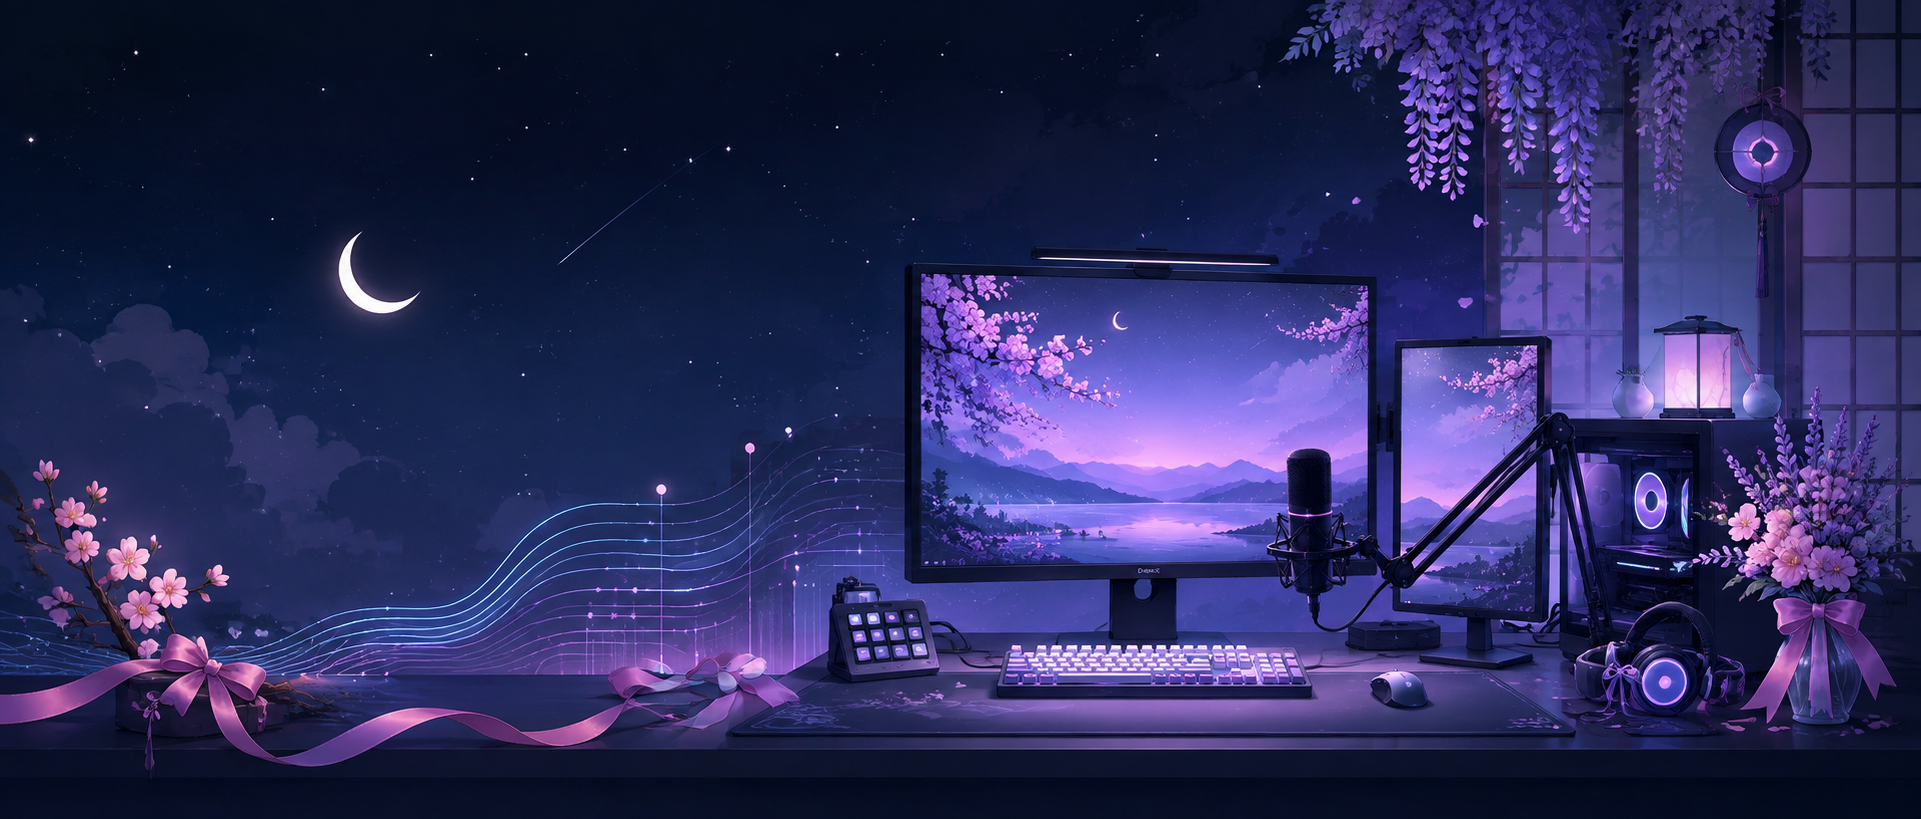
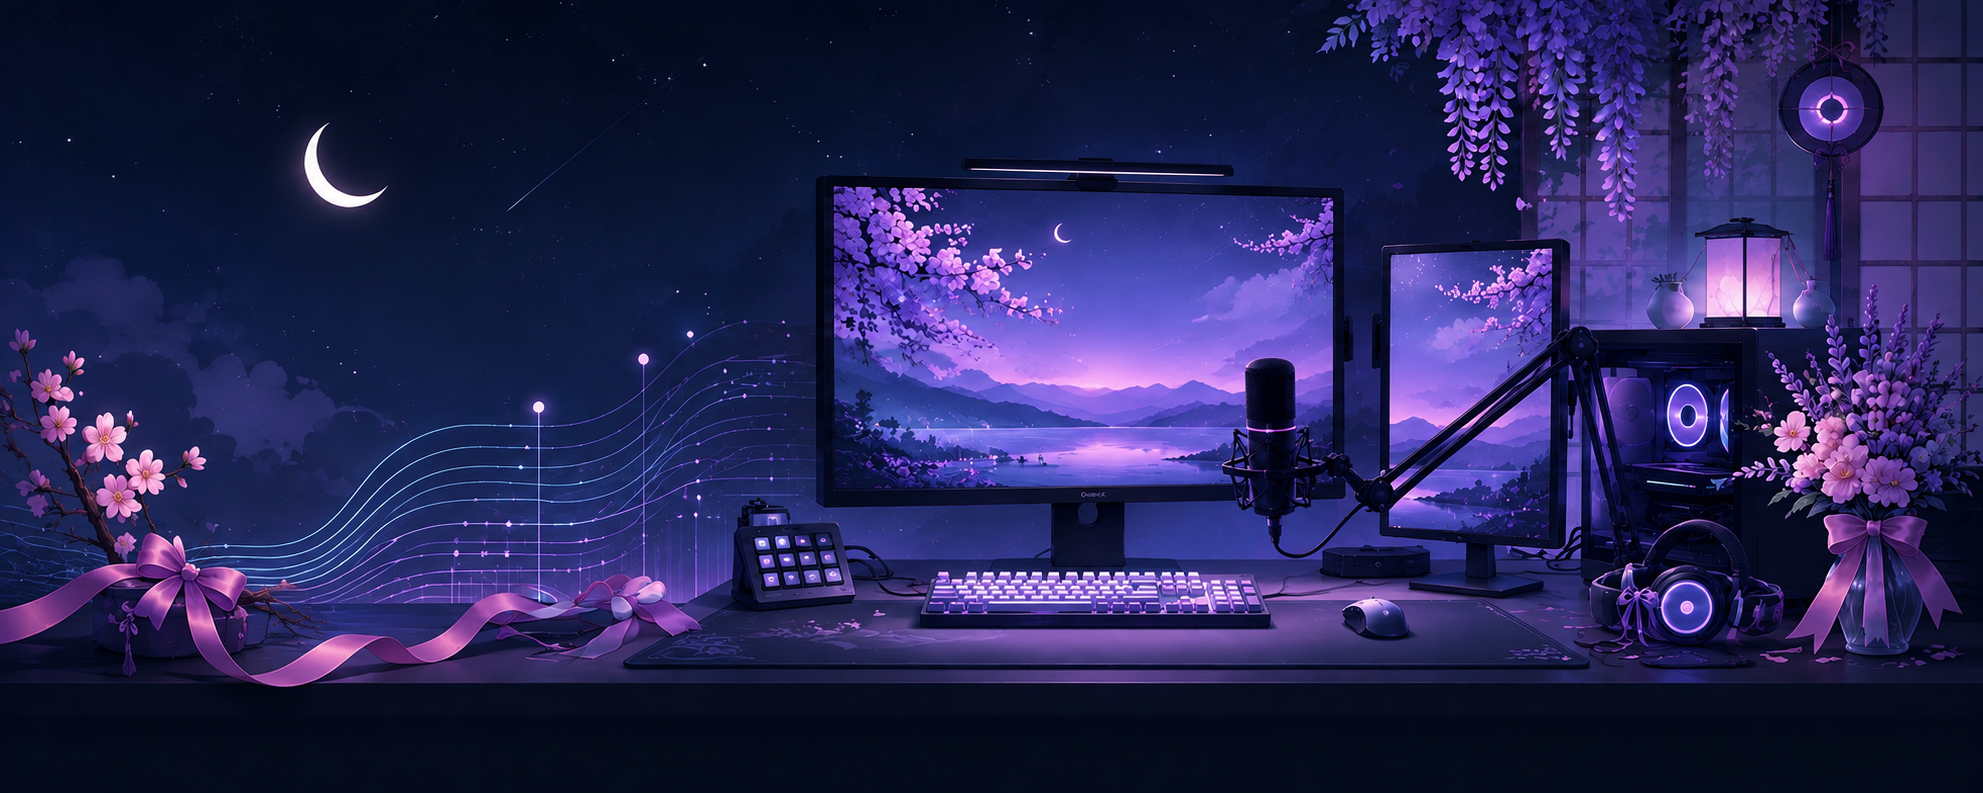
feat: refine profile voice and layout

diff --git a/README.md b/README.md
@@ -1,74 +1,77 @@
 <p align="center">
-  <img src="./assets/profile-banner.png" alt="A moonlit software engineering and streaming workspace" width="100%" />
+  <img src="./assets/profile-banner.png" alt="A moonlit software engineering and streaming workspace" width="88%" />
 </p>
 
 <h1 align="center">yomihime / 如月怜</h1>
 
 <p align="center">
-  <strong>Software Engineer · Virtual Streamer</strong>
+  软件工程师，业余虚拟主播。<br />
+  コードを書いたり、エオルゼアに住んだり。ホラゲも大好きです。
 </p>
 
 <p align="center">
-  <a href="https://blog.evenia.moe"><img src="https://img.shields.io/badge/Blog-Evenia's%20Blog-f3a6c8?style=flat-square" alt="Blog" /></a>
-  <a href="https://space.bilibili.com/230632"><img src="https://img.shields.io/badge/Bilibili-如月怜-00aeec?style=flat-square&logo=bilibili&logoColor=white" alt="Bilibili" /></a>
-  <a href="https://live.bilibili.com/7013636"><img src="https://img.shields.io/badge/Live-Room%207013636-9b8cff?style=flat-square&logo=bilibili&logoColor=white" alt="Bilibili Live" /></a>
-  <a href="https://twitter.com/yomihime_cc"><img src="https://img.shields.io/badge/X-@yomihime__cc-11131f?style=flat-square&logo=x&logoColor=white" alt="X" /></a>
+  <a href="https://blog.evenia.moe"><img src="https://img.shields.io/badge/Blog-f3a6c8?style=flat-square&logo=wordpress&logoColor=white" alt="Blog" /></a>
+  <a href="https://space.bilibili.com/230632"><img src="https://img.shields.io/badge/Bilibili-00aeec?style=flat-square&logo=bilibili&logoColor=white" alt="Bilibili" /></a>
+  <a href="https://live.bilibili.com/7013636"><img src="https://img.shields.io/badge/LIVE-9b8cff?style=flat-square&logo=bilibili&logoColor=white" alt="Bilibili Live" /></a>
+  <a href="https://twitter.com/yomihime_cc"><img src="https://img.shields.io/badge/%40yomihime__cc-11131f?style=flat-square&logo=x&logoColor=white" alt="X" /></a>
 </p>
 
-## 关于我 / 自己紹介
+<p align="center">
+  喜欢的话欢迎关注我的 <a href="https://space.bilibili.com/230632">Bilibili</a>，也来<a href="https://live.bilibili.com/7013636">直播间</a>找我玩呀～<br />
+  よかったら <a href="https://space.bilibili.com/230632">Bilibili</a> をフォローして、<a href="https://live.bilibili.com/7013636">配信</a>にも遊びに来てね！
+</p>
 
-我是以 **C、C++ 和 Python** 为主要技术栈的软件工程师，工作方向以 **BSP 与底层系统软件开发**为主，涉及设备适配、平台启用，以及面向不同硬件架构的生产与验证工具。业余也会制作桌面应用、自动化工具，以及 AI 辅助的内容工作流。
+## 你好呀 / こんにちは
 
-仕事では **BSP や低レイヤーのシステムソフトウェア開発**に携わり、デバイス対応、プラットフォームの立ち上げ、複数のハードウェアアーキテクチャに向けた生産・検証ツールなどを扱っています。主に **C、C++、Python** を使用し、個人ではデスクトップアプリや自動化ツール、AI を活用したコンテンツ制作にも取り組んでいます。
+这里是如月怜～平时是一名软件工程师，主要和 **BSP、底层系统软件**打交道。工作内容有点杂，如果简单概括一下，大概就是想办法让软件和各种硬件好好相处。常用的语言是 **C、C++ 和 Python**。
 
-工作之外，我以 **「如月怜」** 的身份进行游戏直播，主要游玩 **FINAL FANTASY XIV** 和各类恐怖游戏。
+こんにちは、如月怜です！ 普段は **BSP や低レイヤー寄りのシステムソフトウェア**を触っています。お仕事の範囲はちょっと広めですが、ざっくり言うと、ソフトウェアといろいろなハードウェアを仲良くさせる仕事です。よく使う言語は **C、C++、Python** です。
 
-余暇には **「如月怜」** として、主に **FINAL FANTASY XIV** やホラーゲームを配信しています。
+下班以后嘛，要么写点自己想用的小工具，要么就开播打游戏～我是重度 **FF14** 玩家，平时基本都泡在艾欧泽亚；恐怖游戏也超喜欢。胆子超大，完全不会被吓到，纯爱玩 w
 
-```text
-Development  BSP · Low-level systems · Production tooling
-Code         C · C++ · Python
-Languages    中文 · 日本語 · English
-Streaming    FINAL FANTASY XIV · Horror games
-```
+仕事が終わったら、自分用の小さなツールを作るか、配信でゲームしてます。**FFXIV** をかなりやり込んでいて、普段はほとんどエオルゼアにいます。ホラゲも大好き。全然怖くないし、純粋に好きで遊んでるだけです w
 
-## 近况 / 最近の活動
+中文和日文都可以，英文也能进行简单交流。中国語と日本語がメインで、英語も少し使えます。
 
-- 💻 **Work / 仕事：** BSP 与底层系统软件 / BSP・低レイヤーシステムソフトウェア
-- 🔭 **Building / 開発中：** [CharaPicker / 拾卡姬](https://github.com/yomihime/CharaPicker)
-- 🎮 **Streaming / 配信：** FINAL FANTASY XIV、恐怖游戏 / ホラーゲーム
-- 💬 **Languages / 言語：** 中文・日本語为主，需要时使用 English / 中国語・日本語を中心に、必要に応じて英語も使用
+## 最近在做什么 / 最近やっていること
 
-## 代表项目 / メインプロジェクト
+- 在慢慢完善 [CharaPicker / 拾卡姬](https://github.com/yomihime/CharaPicker)
+- 刚 fork 了一个 [Voice Changer](https://github.com/yomihime/voice-changer)，正在看看能不能接着折腾，顺便做点二次开发
+- 把随手写的小工具收进 [yomihime-pouch](https://github.com/yomihime/yomihime-pouch)
+- 重度 FF14 玩家，没在写代码的时候大概率就在艾欧泽亚
+
+## 现在最想做好的项目 / いちばん育てたいもの
 
 ### [CharaPicker / 拾卡姬](https://github.com/yomihime/CharaPicker)
 
-一个使用 **PyQt6 + AI** 构建的桌面工具：从番剧、漫画、视频、图片、音频和文本素材中整理角色信息，并将结果沉淀为可追踪的知识库与结构化角色卡。
+因为很想把本命从番剧、漫画里好好提取出来，再做成 **AstrBot** 里可以聊天的人格，于是就有了拾卡姬～它是一个使用 **PyQt6 + AI** 制作的桌面工具，可以从各种素材里整理角色信息，慢慢积累成知识库，再导出成角色卡和 AstrBot 人格。
 
-アニメ、漫画、動画、画像、音声、テキストなどの素材からキャラクター情報を整理し、追跡可能なナレッジベースと構造化キャラクターカードを作成する **PyQt6 + AI** デスクトップツールです。
+アニメや漫画に登場する推しの情報をきちんと拾い集めて、**AstrBot** で会話できるペルソナにしたくて作り始めました。いろいろな素材から情報を整理し、ナレッジベースやキャラクターカード、AstrBot ペルソナとして出力するデスクトップツールです。
 
-它也是我目前最主要的个人工程项目——从桌面交互、数据模型和多媒体处理，到模型中间件、发布流程与持续重构，都在这里进行。
+还在一点点成长中，不过已经可以下载来玩了。如果遇到问题，也欢迎来告诉我～
 
-[查看源码 / ソースコード](https://github.com/yomihime/CharaPicker) · [下载 / ダウンロード](https://github.com/yomihime/CharaPicker/releases/latest) · [更新日志 / 変更履歴](https://github.com/yomihime/CharaPicker/blob/main/CHANGELOG.md)
+[看看源码 / ソースコード](https://github.com/yomihime/CharaPicker) ・ [下载 / ダウンロード](https://github.com/yomihime/CharaPicker/releases/latest) ・ [更新记录 / 変更履歴](https://github.com/yomihime/CharaPicker/blob/main/CHANGELOG.md)
 
-## 其他项目 / そのほか
+## 还会一点什么 / できること
 
-| Project | 简介 / 概要 |
+- **工作这边：** BSP、底层系统、设备适配、平台启用、生产与验证工具
+- **自己折腾：** 桌面应用、自动化、多媒体处理、AI 工具
+- **常用语言：** C、C++、Python
+- **交流语言：** 中文、日本語、English
+
+具体平台和项目不太方便展开，就在这里留一点点关键词啦。
+
+## 其他小东西 / そのほか
+
+| Project | 里面装了什么 |
 | --- | --- |
-| [yomihime-pouch](https://github.com/yomihime/yomihime-pouch) | 收纳脚本、小工具和编程玩具的数字口袋。<br>スクリプトや小さなツールをまとめたデジタルポーチ。 |
-| [mk_vsmeta](https://github.com/yomihime/mk_vsmeta) | C++ 小工具与实验。<br>C++ の小さなツールと実験。 |
-| [yomihime-stream-assets](https://github.com/yomihime/yomihime-stream-assets) | 直播相关资源与样式。<br>配信で使用するアセットとスタイル。 |
+| [yomihime-pouch](https://github.com/yomihime/yomihime-pouch) | 零零碎碎的脚本、小工具，还有突然冒出来的点子。 |
+| [mk_vsmeta](https://github.com/yomihime/mk_vsmeta) | 给 Synology Video Station 写入 `.vsmeta` 视频标注信息的小工具。可惜 Video Station 从 DSM 7.2.2 起就不再提供了，时代的眼泪…… |
+| [yomihime-stream-assets](https://github.com/yomihime/yomihime-stream-assets) | 直播时会用到的资源和样式。 |
 
-## 技术栈 / 技術スタック
+## 去哪里找我 / リンク
 
-- **Systems / システム：** BSP · Low-level systems · Kernel & device integration · Platform enablement
-- **Engineering Tooling / 開発ツール：** Cross-platform production & validation tools · Automation
-- **Programming / プログラミング：** C · C++ · Python
-- **Personal Projects / 個人開発：** PyQt6 · AI tooling · Multimedia workflows
-
-## 其他平台 / Links
-
-- [Evenia's Blog](https://blog.evenia.moe) — 技术记录与个人文章 / 技術メモと個人ブログ
-- [Bilibili](https://space.bilibili.com/230632) — 视频与动态 / 動画と最新情報
-- [Live Room](https://live.bilibili.com/7013636) — 直播间 / 配信ルーム
-- [X / Twitter](https://twitter.com/yomihime_cc) — 日常与近况 / 日常と近況
+- [Evenia's Blog](https://blog.evenia.moe) — 偶尔写一点技术记录和随笔
+- [Bilibili](https://space.bilibili.com/230632) — 视频、动态，还有直播通知
+- [Live Room](https://live.bilibili.com/7013636) — 如果亮着的话，欢迎进来玩～
+- [X / Twitter](https://twitter.com/yomihime_cc) — 日常碎碎念
